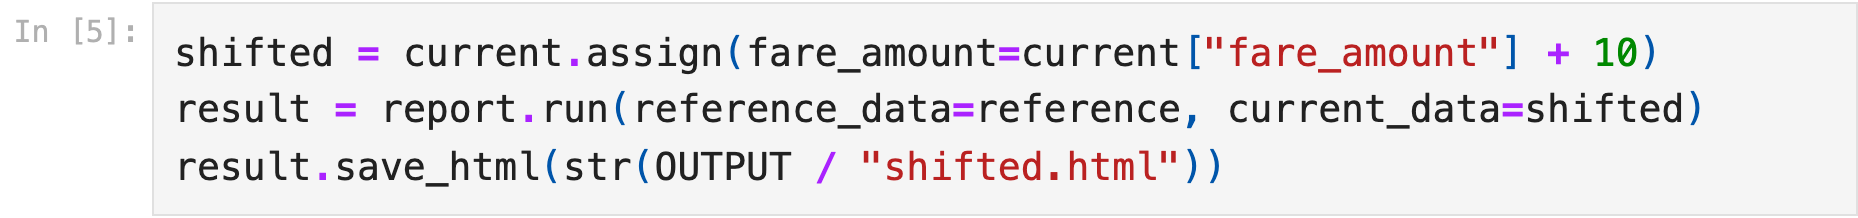
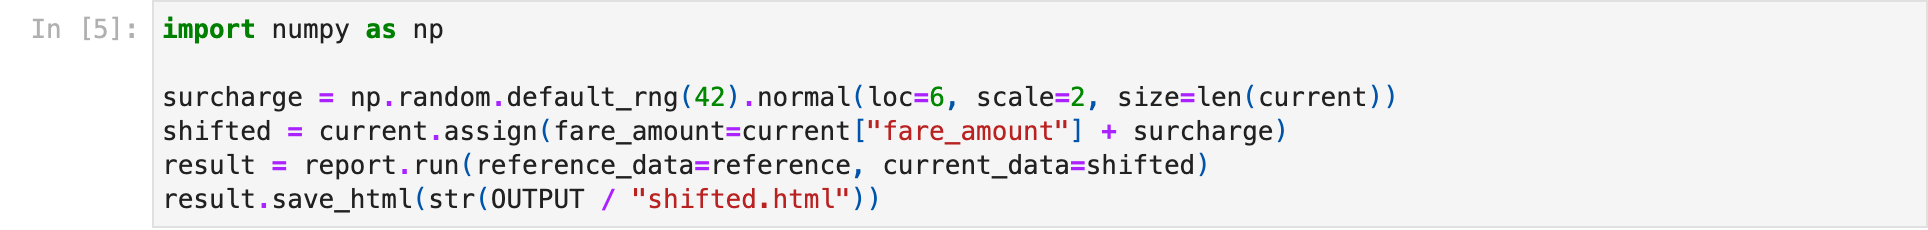
Simulate a normally distributed surcharge on observed taxi fares

diff --git a/seminar/evidently/index.html b/seminar/evidently/index.html
@@ -25,8 +25,8 @@
 <section><h2>Как собрать проверки в отчёт?</h2><div class="doc-examples"><article><h3>Preset</h3><p><code>DataSummaryPreset()</code> даёт обзор таблицы и пропусков. <code>DataDriftPreset()</code> показывает изменения между выборками. Для классификации есть <code>ClassificationPreset()</code>.</p><a href="doc-images/data-summary.png" target="_blank" rel="noopener"><img src="doc-images/data-summary.png" alt="Сводка данных из документации Data Summary"></a><small>Иллюстрация Evidently · <a href="https://docs.evidentlyai.com/metrics/all_presets" target="_blank" rel="noopener">Каталог пресетов ↗</a></small></article><article><h3>Report</h3><p>В документации есть отчёт с одной метрикой и отчёт с двумя пресетами сразу. Опция <code>include_tests=True</code> добавляет проверки условий и показывает, какие из них сработали.</p><a href="doc-images/tests.png" target="_blank" rel="noopener"><img src="doc-images/tests.png" alt="Отображение проверок условий из официального примера Data Drift"></a><small>Иллюстрация Evidently · <a href="https://docs.evidentlyai.com/docs/library/report" target="_blank" rel="noopener">Примеры Report ↗</a></small></article></div></section>
 
 <section><h2>Как получить первый отчёт</h2><a href="cells/preset.png" target="_blank" rel="noopener"><img class="cell" src="cells/preset.png" alt="Ячейка 3. Методы и пороги для чисел и категорий."></a><a href="cells/control.png" target="_blank" rel="noopener"><img class="cell" src="cells/control.png" alt="Ячейка 4. Расчёт и сохранение исходного отчёта."></a><p><code>Report([...])</code> задаёт методы и пороги. <code>run(...)</code> применяет их к двум таблицам и возвращает результат в <code>control</code>. Вызов <code>control.save_html(...)</code> записывает этот результат с графиками в файл для браузера.</p><p class="links"><a href="https://naumtsevalex.github.io/itmo_2026_AITH-ML-Eng-Practices/reports/control.html" target="_blank" rel="noopener">Открыть исходный отчёт ↗</a></p></section>
-<section><h2>Меняем один признак</h2><p>Имитируем ошибочную надбавку в $10. Строки и остальные четыре признака берём из той же партии за 15 ноября.</p><a href="cells/shifted.png" target="_blank" rel="noopener"><img class="cell" src="cells/shifted.png" alt="Ячейка 5. Надбавка к тарифу и сохранение отчёта."></a><p>В отчёте раскрываем строку <b>fare_amount</b> и сравниваем распределения стоимости.</p><p class="links"><a href="https://naumtsevalex.github.io/itmo_2026_AITH-ML-Eng-Practices/reports/shifted.html" target="_blank" rel="noopener">Открыть отчёт после надбавки ↗</a></p></section>
-<section><h2>Какой тест сработал?</h2><figure><img class="report" src="drift-table.png" alt="Таблица Evidently: Detected для fare_amount, Not Detected для остальных четырёх признаков"></figure><p>Расстояние по тарифу выросло с 0,0095 до <strong>0,6075</strong> и пересекло порог <strong>0,1</strong>. Сигнал по одному из пяти признаков даёт 20%. Порог сводной карточки по всему датасету — 50%.</p></section>
+<section><h2>Меняем один признак</h2><p>Предположим, водители стали брать больше. К реальной цене каждой поездки 15 ноября прибавляем случайную сумму: среднее $6, дисперсия 4 долл.². В коде <code>scale=2</code> — стандартное отклонение в долларах.</p><a href="cells/shifted.png" target="_blank" rel="noopener"><img class="cell" src="cells/shifted.png" alt="Ячейка 5. Надбавка к тарифу и сохранение отчёта."></a><p>В отчёте раскрываем строку <b>fare_amount</b> и сравниваем распределения стоимости.</p><p class="links"><a href="https://naumtsevalex.github.io/itmo_2026_AITH-ML-Eng-Practices/reports/shifted.html" target="_blank" rel="noopener">Открыть отчёт после надбавки ↗</a></p></section>
+<section><h2>Какой тест сработал?</h2><figure><img class="report" src="drift-table.png" alt="Таблица Evidently: Detected для fare_amount, Not Detected для остальных четырёх признаков"></figure><p>Расстояние по тарифу выросло с 0,0095 до <strong>0,3672</strong> и пересекло порог <strong>0,1</strong>. Сигнал по одному из пяти признаков даёт 20%. Порог сводной карточки по всему датасету — 50%.</p></section>
 <section><h2>А если сломались категории?</h2><p>Берём исходную партию за 15 ноября. Представим, что после изменения справочника каждая оплата записалась как наличная.</p><a href="cells/payment.png" target="_blank" rel="noopener"><img class="cell" src="cells/payment.png" alt="Ячейка 6. Изменение способа оплаты и сохранение отчёта."></a><p>Расстояние Дженсена — Шеннона по способу оплаты выросло с 0,000046 до <strong>0,6927</strong>. Расстояние по тарифу осталось на уровне 0,0095.</p><p class="links"><a href="https://naumtsevalex.github.io/itmo_2026_AITH-ML-Eng-Practices/reports/payment.html" target="_blank" rel="noopener">Открыть отчёт по способу оплаты ↗</a></p></section>
 <section><h2>Что делать после сигнала?</h2><ol><li><strong>Тариф.</strong> Сверить несколько записей с чеками, проверить надбавки, единицы измерения и дату изменения правил.</li><li><strong>Способ оплаты.</strong> Сверить исходные коды платежей и их преобразование в <code>card</code> и <code>cash</code>.</li><li><strong>Модель.</strong> Когда доступны фактические исходы, сравнить ошибку на двух периодах и отдельно в затронутом сегменте.</li></ol><p class="links"><a href="https://github.com/naumtsevalex/itmo_2026_AITH-ML-Eng-Practices/blob/main/seminar/evidently/quickstart/demo.ipynb">Ноутбук с кодом и выводом</a> · <a href="https://docs.evidentlyai.com/metrics/customize_data_drift">Методы и пороги Evidently</a> · <a href="https://docs.evidentlyai.com/metrics/preset_data_drift">Data Drift Preset</a></p></section>
 </main>

diff --git a/seminar/evidently/quickstart/drift.py b/seminar/evidently/quickstart/drift.py
@@ -2,6 +2,7 @@
 
 from pathlib import Path
 
+import numpy as np
 import pandas as pd
 from evidently import Report
 from evidently.presets import DataDriftPreset
@@ -40,9 +41,11 @@ def main():
     reference = trips_on("2023-11-08")
     current = trips_on("2023-11-15")
 
+    surcharge = np.random.default_rng(42).normal(loc=6, scale=2, size=len(current))
+
     for name, batch in [
         ("control", current),
-        ("shifted", current.assign(fare_amount=current["fare_amount"] + 10)),
+        ("shifted", current.assign(fare_amount=current["fare_amount"] + surcharge)),
         ("payment", current.assign(payment_type="cash")),
     ]:
         report = Report(

diff --git a/seminar/evidently/quickstart/drift-scores.md b/seminar/evidently/quickstart/drift-scores.md
@@ -18,7 +18,7 @@
 
 Представь две группы тарифов в долларах: **[10, 20, 30]** и **[20, 30, 40]**. После сортировки каждая пара отличается на $10. Для двух выборок одинакового размера обычное расстояние Вассерштейна равно среднему абсолютному различию таких пар — здесь **$10**. У реальных партий размеры могут различаться, тогда метод сопоставляет доли распределений.
 
-Evidently делит полученное расстояние на стандартное отклонение reference (с нижней границей знаменателя 0,001). Так получается безразмерный **Drift Score**. Для длины поездки **0,008392** означает расстояние около **0,84% от эталонного стандартного отклонения**. Порог 0,1 соответствует десятой части такого отклонения. Для тарифа на исходных датах получили **0,0095**, а после искусственной надбавки $10 — **0,6075**. Сработал детектор тарифа. [Методы Evidently](https://docs.evidentlyai.com/metrics/customize_data_drift) · [Определение расстояния в SciPy](https://docs.scipy.org/doc/scipy/reference/generated/scipy.stats.wasserstein_distance.html)
+Evidently делит полученное расстояние на стандартное отклонение reference (с нижней границей знаменателя 0,001). Так получается безразмерный **Drift Score**. Для длины поездки **0,008392** означает расстояние около **0,84% от эталонного стандартного отклонения**. Порог 0,1 соответствует десятой части такого отклонения. Для тарифа на исходных датах получили **0,0095**, а после случайной надбавки со средним $6 — **0,3672**. Сработал детектор тарифа. [Методы Evidently](https://docs.evidentlyai.com/metrics/customize_data_drift) · [Определение расстояния в SciPy](https://docs.scipy.org/doc/scipy/reference/generated/scipy.stats.wasserstein_distance.html)
 
 ## 2. Дженсен — Шеннон — насколько изменились доли категорий?
 
@@ -30,4 +30,4 @@ Evidently делит полученное расстояние на станда
 
 В каждом искусственном сценарии сработал **1 из 5 признаков**, то есть **20%**. Порог верхней карточки Dataset Drift равен **50%**. Поэтому у конкретной колонки видим **Detected**, а по датасету в целом — **Not Detected**. Для объяснения инцидента стоит назвать колонку, метод, значение и порог. [Результаты для всех пяти признаков](README.md#3-как-выглядит-drift-на-настоящем-отчёте)
 
-Хотя в интерфейсе колонка называется **Stat Test**, в этом демо оба числа — **расстояния**. Чем больше число, тем сильнее различаются распределения по выбранной мере. Значение 0,6075 не означает вероятность drift 60,75%. Например, у доступного в Evidently теста Колмогорова — Смирнова результатом служит p-value и сигнал возникает при малом значении. Всегда читай Drift Score вместе с названием метода. [Справочник методов и порогов](https://docs.evidentlyai.com/metrics/customize_data_drift)
+Хотя в интерфейсе колонка называется **Stat Test**, в этом демо оба числа — **расстояния**. Чем больше число, тем сильнее различаются распределения по выбранной мере. Значение 0,3672 не означает вероятность drift 36,72%. Например, у доступного в Evidently теста Колмогорова — Смирнова результатом служит p-value и сигнал возникает при малом значении. Всегда читай Drift Score вместе с названием метода. [Справочник методов и порогов](https://docs.evidentlyai.com/metrics/customize_data_drift)

diff --git a/seminar/evidently/quickstart/README.md b/seminar/evidently/quickstart/README.md
@@ -31,9 +31,9 @@ Evidently — Python-библиотека для оценки данных и п
 
 **Что проверяем.** Стоимость и расстояние поездки в милях — числовые признаки. Для них Evidently применяет нормированное расстояние Вассерштейна. Для способа оплаты, числа пассажиров и зоны посадки сравнивает доли категорий расстоянием Дженсена — Шеннона. Например, можно увидеть, как изменилась доля поездок с одним пассажиром или из конкретной зоны. Для каждого признака порог равен 0,1. [Методы и пороги](https://docs.evidentlyai.com/metrics/customize_data_drift)
 
-| Признак | Две реальные даты | Надбавка $10 | Все оплаты записаны наличными |
+| Признак | Две реальные даты | Случайная надбавка, в среднем $6 | Все оплаты записаны наличными |
 |---|---:|---:|---:|
-| `fare_amount` (базовый тариф, доллары США) | 0,0095 | **0,6075** | 0,0095 |
+| `fare_amount` (базовый тариф, доллары США) | 0,0095 | **0,3672** | 0,0095 |
 | `payment_type` (способ оплаты) | 0,000046 | 0,000046 | **0,6927** |
 | `trip_distance` (расстояние поездки, мили) | 0,0084 | 0,0084 | 0,0084 |
 | `passenger_count` (число пассажиров) | 0,0070 | 0,0070 | 0,0070 |
@@ -45,9 +45,9 @@ Evidently — Python-библиотека для оценки данных и п
 
 ![Реальные распределения за 8 и 15 ноября](control.png)
 
-**Числовой признак.** Имитация ошибки тарификации сместила распределение стоимости вправо. Смотри строку `fare_amount`, сравни гистограммы и значение Drift Score с порогом. При таком сигнале проверь правила расчёта тарифа и несколько исходных чеков.
+**Числовой признак.** Случайная надбавка водителя со средним $6 и стандартным отклонением $2 сместила распределение стоимости вправо. Смотри строку `fare_amount`, сравни гистограммы и значение Drift Score с порогом. При таком сигнале проверь правила расчёта тарифа и несколько исходных чеков.
 
-![Сдвиг стоимости после надбавки в 10 долларов](shifted.png)
+![Сдвиг стоимости после случайной надбавки](shifted.png)
 
 **Категориальный признак.** Отдельно моделируем сбой в кодировании платежей: все поездки получили категорию `cash`. В отчёте изменилась доля категорий. После такого сигнала стоит проверить маппинг кодов и свериться с платёжной системой. Для вывода о качестве модели потребуются прогнозы и фактические результаты.
 
